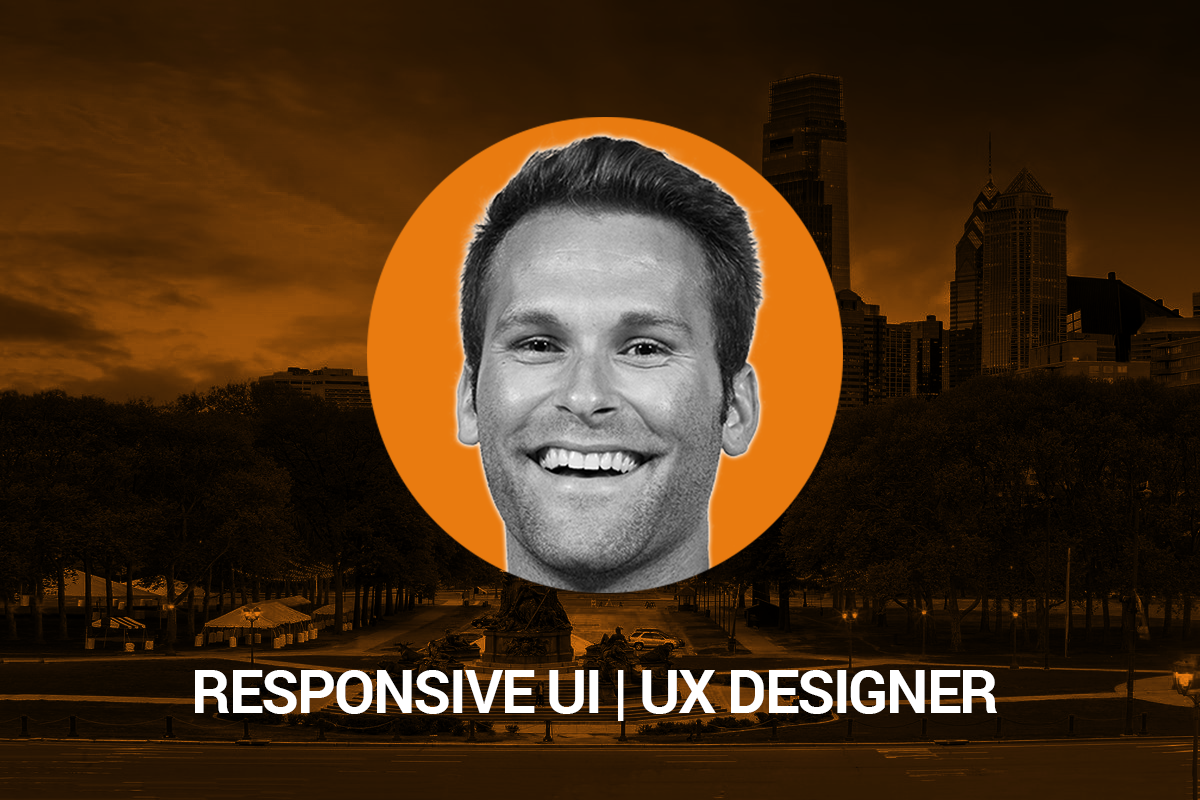
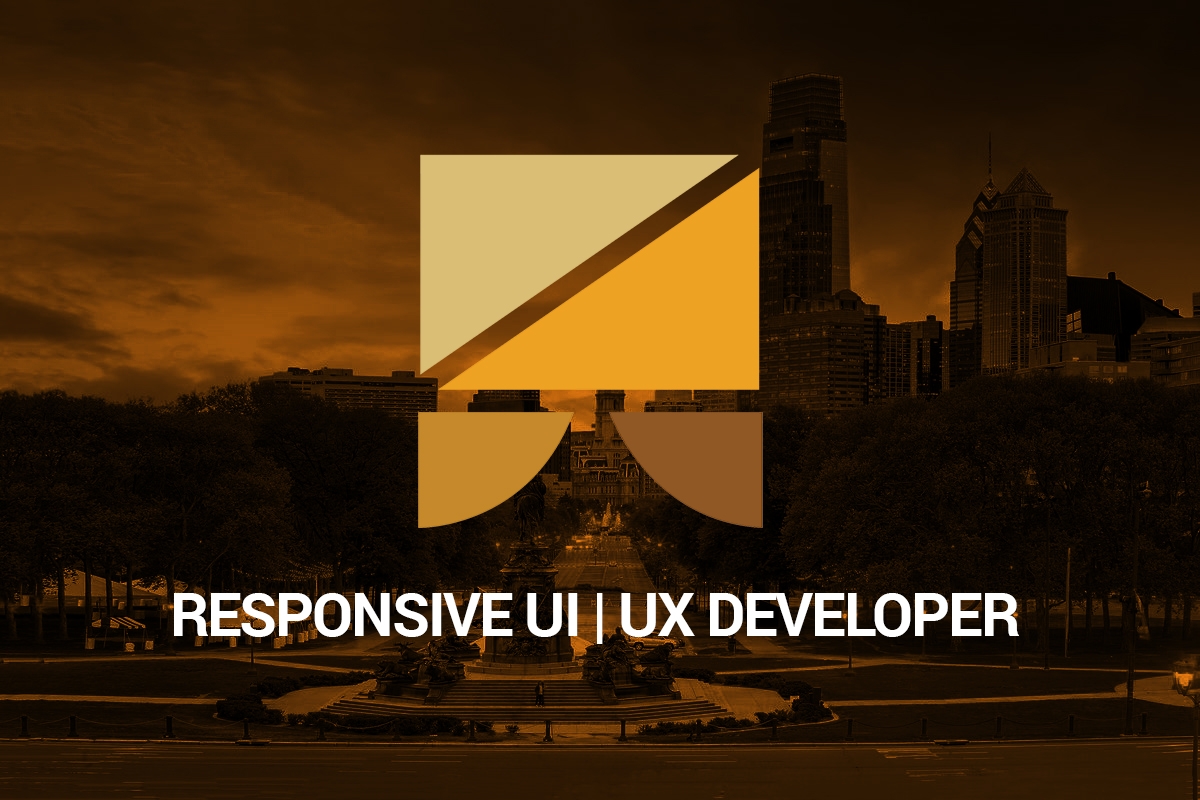
I changed some styling as well as added new photos to the webpage. I also added the Star Wars Rpg Game.

Changed region(s): [[0.1233, 0.125, 0.8633, 0.9062]]

diff --git a/index.html b/index.html
@@ -31,9 +31,69 @@
       background-color: rgb(90, 58, 21);
     }
 
+    .head{
+      margin-top: 70px;
+      display: block;
+    margin-left: auto;
+    margin-right: auto;
+    width: 100%;
+
+    }
+
     .container.text-center {
       background-color: rgb(110, 94, 73);
       padding: 20px;
+    }
+
+    .github {
+      border-radius: 50%;
+    }
+
+    .github:hover {
+      -webkit-transition: all 200ms ease-in;
+      -webkit-transform: scale(1.2);
+      -ms-transition: all 200ms ease-in;
+      -ms-transform: scale(1.2);
+      -moz-transition: all 200ms ease-in;
+      -moz-transform: scale(1.2);
+      transition: all 200ms ease-in;
+      transform: scale(1.2);
+      transition: all .2s ease-in-out;
+      transform: scale(1.2);
+    }
+
+    .linkedin {
+      border-radius: 50%;
+    }
+
+    .linkedin:hover {
+      -webkit-transition: all 200ms ease-in;
+      -webkit-transform: scale(1.2);
+      -ms-transition: all 200ms ease-in;
+      -ms-transform: scale(1.2);
+      -moz-transition: all 200ms ease-in;
+      -moz-transform: scale(1.2);
+      transition: all 200ms ease-in;
+      transform: scale(1.2);
+      transition: all .2s ease-in-out;
+      transform: scale(1.2);
+    }
+
+    .stackoverflow {
+      border-radius: 50%;
+    }
+
+    .stackoverflow:hover {
+      -webkit-transition: all 200ms ease-in;
+      -webkit-transform: scale(1.2);
+      -ms-transition: all 200ms ease-in;
+      -ms-transform: scale(1.2);
+      -moz-transition: all 200ms ease-in;
+      -moz-transform: scale(1.2);
+      transition: all 200ms ease-in;
+      transform: scale(1.2);
+      transition: all .2s ease-in-out;
+      transform: scale(1.2);
     }
 
     .mb-5 {
@@ -71,18 +131,22 @@
       padding-top: 0;
     }
 
+
     #contact {
       padding-top: 0;
     }
 
     #nextgroup {
       max-width: 350px;
-      margin-left: 34%;
-
+      margin-left: auto;
+      margin-right: auto;
+      margin-bottom: 0px;
     }
 
     #wavy {
       max-width: 1000px;
+      margin-left: auto;
+      margin-right: auto;
     }
 
 
@@ -349,7 +413,7 @@
   <nav class="navbar navbar-expand-lg bg-secondary fixed-top text-uppercase" id="mainNav">
     <div class="container">
       <a class="navbar-brand js-scroll-trigger" href="#page-top">
-        <img id="four" src="assets/images/normal/mainlogo.png" alt="navicon" width="30px" height="30px">Zach Wiest</a>
+        <img id="four" src="assets/images/normal/logospin.gif" alt="navicon" width="30px" height="30px">Zach Wiest</a>
       <button class="navbar-toggler navbar-toggler-right text-uppercase bg-primary text-white rounded" type="button" data-toggle="collapse"
         data-target="#navbarResponsive" aria-controls="navbarResponsive" aria-expanded="false" aria-label="Toggle navigation">
         Menu
@@ -507,6 +571,16 @@
             <img class="img-fluid" src="assets/images/portfolio/lotr.jpg" alt="lordoftheringshangman">
           </a>
         </div>
+        <div class="col-md-6 col-lg-4">
+          <a class="portfolio-item d-block mx-auto" href="#portfolio-modal-7">
+            <div class="portfolio-item-caption d-flex position-absolute h-100 w-100">
+              <div class="portfolio-item-caption-content my-auto w-100 text-center text-white">
+                <i class="fa fa-search-plus fa-3x"></i>
+              </div>
+            </div>
+            <img class="img-fluid" src="assets/images/portfolio/darthmaul.png" alt="starwarsrpg">
+          </a>
+        </div>
       </div>
     </div>
   </section>
@@ -514,6 +588,7 @@
   <!-- About Section -->
   <section class="bg-primary text-white mb-0" id="about">
     <div class="container">
+
       <section id="nextgroup">
         <div id="ui">
           <div class="text">About Zach Wiest</div>
@@ -568,28 +643,33 @@
 
           <div class="text">About Zach Wiest</div>
         </div>
+        <img src="assets/images/normal/zachhead.png" class="head" width="700px" height="320px">
       </section>
+      
       <hr class="star-light mb-5">
       <div class="row">
         <div class="col-lg-4 ml-auto">
-          <p class="lead">My goal in life is to be the most competent designer I can be while fabricating extraordinary digital solutions
-            for clients. I like enlightening myself in all subject matter that encompasses the digital design world. I'm
-            a dedicated, ambitious, hardworking, team player that doesn't succumb to failure.
+          <p class="lead">My goal in life is to be the most competent designer I can be while fabricating 
+            extraordinary digital solutions for clients. I like enlightening myself in all subject matter 
+            that encompasses the digital design world. I'm a dedicated, ambitious, hardworking, team player 
+            that doesn't succumb to failure. Instead I embrace failure as a learning experience that I can grow from. 
+            Currently I am enrolled in UPENN'S 6 month full stack web development certification course. I'm pursuing 
+            a profession transition from Graphic Motion and static UI Designer to a Full Stack or Front-End Web Developer.
           </p>
         </div>
         <div class="col-lg-4 mr-auto">
-          <p class="lead">Instead I embrace failure as a learning experience that I can grow from. Currently I am enrolled in UPENN'S 6 month
-            full stack web development certification course. I'm pursuing a profession transition from Graphic Motion and
-            static UI Designer to a Full Stack or Front-End Web Developer. Click the button below to go to my Graphic Design
-            Portfolio.
+          <p class="lead"> In my freetime I like to go on adventures of all different kinds and while I'm adventuring I 
+            like to take photographs of scenery as well as shoot and edit videos. I also like to paint in my freetime in acrylic
+            and oil as well. Other than that most of my time is spent learning coding and learning new design techniques. I 
+            like to create as much and use as much or my own original material as possible so that all of my work is always 
+            fresh and original.<u>You can click the button below to go to my Graphic Design ONLY portfolio.</u> 
           </p>
         </div>
       </div>
       <div class="text-center mt-4">
         <a class="btn btn-xl btn-outline-light" href="https://zachwiestdesign.com/" target="_blank">
-          <i class="fa fa-download mr-2"></i>
-          Graphics Portfolio
-        </a>
+          <img src="assets/images/normal/logospin.gif" width:"60px" height="60px">
+          <i class="fa fa-download mr-2"></i>Graphics Portfolio</a>
       </div>
     </div>
   </section>
@@ -765,28 +845,20 @@
           </section>
           <ul class="list-inline mb-0">
             <li class="list-inline-item">
-              <a class="btn btn-outline-light btn-social text-center rounded-circle" href="#">
-                <i class="fa fa-fw fa-facebook"></i>
+              <a href="https://www.linkedin.com/in/zach-wiest-484971129/" target="_blank">
+                <img class="linkedin" src="assets/images/normal/linkedin.png" alt="linkedin" width="80" height="80" border="0">
               </a>
             </li>
             <li class="list-inline-item">
-              <a class="btn btn-outline-light btn-social text-center rounded-circle" href="#">
-                <i class="fa fa-fw fa-google-plus"></i>
+              <a href="https://github.com/Zdubz7" target="_blank">
+                <img class="github" src="assets/images/normal/github.png" alt="github" width="80" height="80" border="0">
+              </a>
+              <i class="fa fa-fw fa-twitter"></i>
               </a>
             </li>
             <li class="list-inline-item">
-              <a class="btn btn-outline-light btn-social text-center rounded-circle" href="#">
-                <i class="fa fa-fw fa-twitter"></i>
-              </a>
-            </li>
-            <li class="list-inline-item">
-              <a class="btn btn-outline-light btn-social text-center rounded-circle" href="#">
-                <i class="fa fa-fw fa-linkedin"></i>
-              </a>
-            </li>
-            <li class="list-inline-item">
-              <a class="btn btn-outline-light btn-social text-center rounded-circle" href="#">
-                <i class="fa fa-fw fa-dribbble"></i>
+              <a href="https://stackoverflow.com/users/9649670/zach-wiest?tab=profile" target="_blank">
+                <img class="stackoverflow" src="assets/images/normal/stackoverflow.png" alt="stackoverflow" width="80" height="80" border="0">
               </a>
             </li>
           </ul>
@@ -1002,14 +1074,49 @@
               <h2 class="text-secondary text-uppercase mb-0">Lord Of The Rings Hangman</h2>
               <hr class="star-dark mb-5">
               <img class="img-fluid mb-5" src="assets/images/portfolio/lotr.jpg" alt="lordoftheringshangman" href="#">
-              <p class="mb-5">Lord of The Rings Hangman is a game I designed in HTML, CSS, and Javascript. This game displays blanks which
-                the user will guess the character using the hint provided and the alphabet pad to input the letters. Everytime
-                a character is guessed, if correct the letter goes in the space, if the guess is incorrect, the canvas will
-                start drawing limbs of the hangman. When the user gets to 0 lives the game is over, if the user guesses correct
-                or incorrect the score will either be tallied in wins or losses.
+              <p class="mb-5">Lord of The Rings Hangman is a game I designed in HTML, CSS, Jquery, and Javascript. This game displays blanks
+                which the user will guess the character using the hint provided and the alphabet pad to input the letters.
+                Everytime a character is guessed, if correct the letter goes in the space, if the guess is incorrect, the
+                canvas will start drawing limbs of the hangman. When the user gets to 0 lives the game is over, if the user
+                guesses correct or incorrect the score will either be tallied in wins or losses.
               </p>
 
               <a class="btn btn-primary btn-lg rounded-pill portfolio-modal-open" href="https://zdubz7.github.io/Word-Guess-Game/" target="_blank">
+                <i class="fa fa-open"></i>
+                Open Project</a>
+
+              <a class="btn btn-primary btn-lg rounded-pill portfolio-modal-dismiss" href="#">
+                <i class="fa fa-close"></i>
+                Close Project</a>
+
+            </div>
+          </div>
+        </div>
+    </div>
+  </div>
+
+
+  <!-- Portfolio Modal 7 -->
+  <div class="portfolio-modal mfp-hide" id="portfolio-modal-7">
+    <div class="portfolio-modal-dialog bg-white">
+      <a class="close-button d-none d-md-block portfolio-modal-dismiss" href="#">
+        <a class="open-button d-none d-md-block portfolio-modal-open" href="https://zdubz7.github.io/unit-4-game/">
+          <i class="fa fa-3x fa-times"></i>
+        </a>
+        <div class="container text-center">
+          <div class="row">
+            <div class="col-lg-8 mx-auto">
+              <h2 class="text-secondary text-uppercase mb-0">Star Wars RPG</h2>
+              <hr class="star-dark mb-5">
+              <img class="img-fluid mb-5" src="assets/images/portfolio/darthmaul.png" alt="Star Wars RPG" href="#">
+              <p class="mb-5">Star Wars RPG is a game I designed in HTML, CSS, Jquery, and Javascript. This game displays 4 different Star
+                Wars Characters to choose from, then once the user chooses a character the user will pick another character
+                to attack. The user will click the attack button until either defeated, or defeating the enemy. If the user
+                defeats the enemy the user is given another option to attack another Star Wars Character and repeat that
+                process.
+              </p>
+
+              <a class="btn btn-primary btn-lg rounded-pill portfolio-modal-open" href="https://zdubz7.github.io/unit-4-game/" target="_blank">
                 <i class="fa fa-open"></i>
                 Open Project</a>
 

diff --git a/assets/css/mystyle.css b/assets/css/mystyle.css
@@ -2,9 +2,17 @@ body{
     font-family: 'Roboto Condensed', sans-serif !important;
 }
 
+.img-fluid {
+  width: 720 !important;
+  height: 486 !important;
+  padding: 10px !important;
+}
+
 h2 {
   font-family: 'Roboto Condensed', sans-serif !important;
 }
+
+
 #one{
     margin-right: 5px;
     margin-bottom: 4px;
@@ -37,12 +45,12 @@ h2 {
   
   hr.star-light,
   hr.star-dark {
-    max-width: 15rem;
+    max-width: 60rem;
     padding: 0;
     text-align: center;
     border: none;
     border-top: solid 0.25rem;
-    margin-top: 2.5rem;
+
     margin-bottom: 2.5rem;
   }
   
@@ -263,6 +271,7 @@ h2 {
     transform: scale(1.2);
     transition: all .2s ease-in-out;
     transform: scale(1.2);
+    padding: -20px !important;
   }
   
   .portfolio .portfolio-item .portfolio-item-caption {
@@ -275,6 +284,7 @@ h2 {
   
   .portfolio .portfolio-item .portfolio-item-caption:hover {
     opacity: 1;
+
   }
   
   .portfolio .portfolio-item .portfolio-item-caption .portfolio-item-caption-content {
